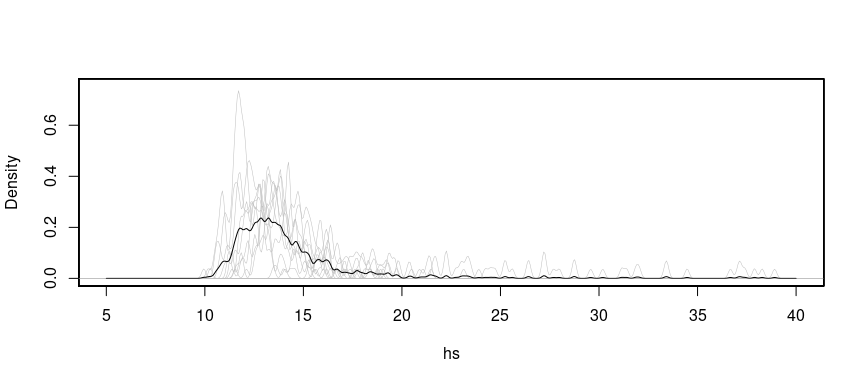
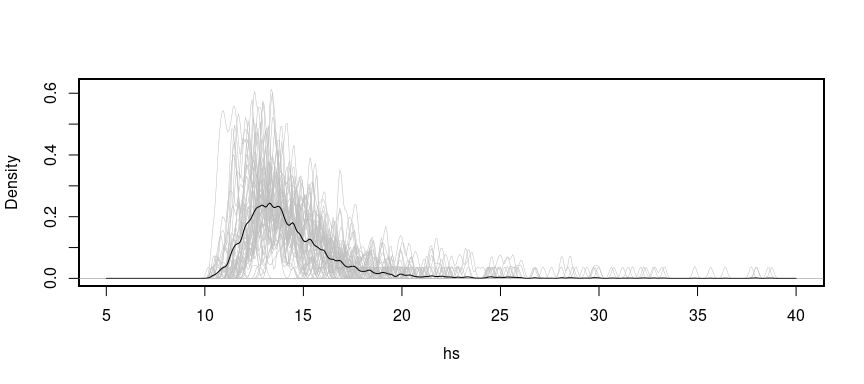
updated README

diff --git a/README.md b/README.md
@@ -52,7 +52,7 @@ system.time(df_pick <- peak_picking(ds, peak_picking_thr_model_fml,
     ## [1] "find peaks for combined storms"
 
     ##    user  system elapsed 
-    ##  25.423   1.826  27.264
+    ##  28.231   1.791  30.026
 
 ``` r
 # additional variables were added, i.e. exc, thr, and storm_idx
@@ -83,7 +83,7 @@ plot(density(ds$hs, bw=.1), main="All Sea States Hs [m]")
 
 ``` r
 # number of bootstrap/resampling steps
-nbstrp <- 10  # e.g. nbstrp = 20 for testing
+nbstrp <- 50  # e.g. nbstrp = 20 for testing
 
 system.time(res_bstrp <- run_bootstrap_storms_pots(df = df_pick$storms,
                                                    group_col = "storm_idx",
@@ -92,7 +92,7 @@ system.time(res_bstrp <- run_bootstrap_storms_pots(df = df_pick$storms,
 ```
 
     ##    user  system elapsed 
-    ##   1.431   0.001   1.434
+    ##   8.546   0.067   8.616
 
 ``` r
 bstrp_storms_lst <- res_bstrp$boot_samples
@@ -186,8 +186,7 @@ nmc <- 100  # number of mc samples for each bootstrap sample
 
 syst <- system.time(
 preds_margs_lst <- predict_margs(models_margs, nr_yrs_subdata, RP=RP,
-                                 nmc = nmc, var_lst = c('hs','tm2'),
-                 nbstrp = nbstrp,
+                                 nmc = nmc, var_lst = c('hs','tm2'), nbstrp = nbstrp,
                                  covarstr_lst = c('Pdir','doy'),
                                  grid_interval = list('Pdir'=1, 'doy'=1))
 )
@@ -204,7 +203,7 @@ dhs <- diagnose_margs_preds_density(preds_margs_lst, 'hs', bw=.1, xlim=c(5,40))
 
     ## [1] "summary maxes:"
     ##    Min. 1st Qu.  Median    Mean 3rd Qu.    Max. 
-    ##   9.945  12.467  13.563  15.961  15.199 195.970
+    ##   10.18   12.70   13.77   14.64   15.29  329.11
 
 ``` r
 abline(v = max(df_pick$pots$hs), col = "gray", lwd = 2)
@@ -271,7 +270,7 @@ print(syst)
 # Diagnose by comparing data against nsim HT2004 simulations
 
 ``` r
-nsim <- 200
+nsim <- 100
 diagnose_maxds_fitted(models_maxds[[2]], "tm2", "hs", nsim)
 ```
 
@@ -458,8 +457,8 @@ consider subregions on covariate parameter space (e.g. sector, season,
 ``` r
 # plot Hs against covariate parameter space doy and Pdir
 # Define your interval
-x_min_Pdir_high <- 180
-x_max_Pdir_high <- 230
+x_min_Pdir_high <- 190
+x_max_Pdir_high <- 240
 
 x_min_Pdir_low <- 130
 x_max_Pdir_low <- 180
@@ -514,9 +513,9 @@ cat(sprintf("Low sector: %.2f\nHigh sector: %.2f\nOmni: %.2f\n",
             RP_f_hmax_low, RP_f_hmax_high, RP_f_hmax))
 ```
 
-    ## Low sector: 15.73
-    ## High sector: 24.10
-    ## Omni: 24.48
+    ## Low sector: 12.02
+    ## High sector: 20.70
+    ## Omni: 21.00
 
 ## Notes
 
